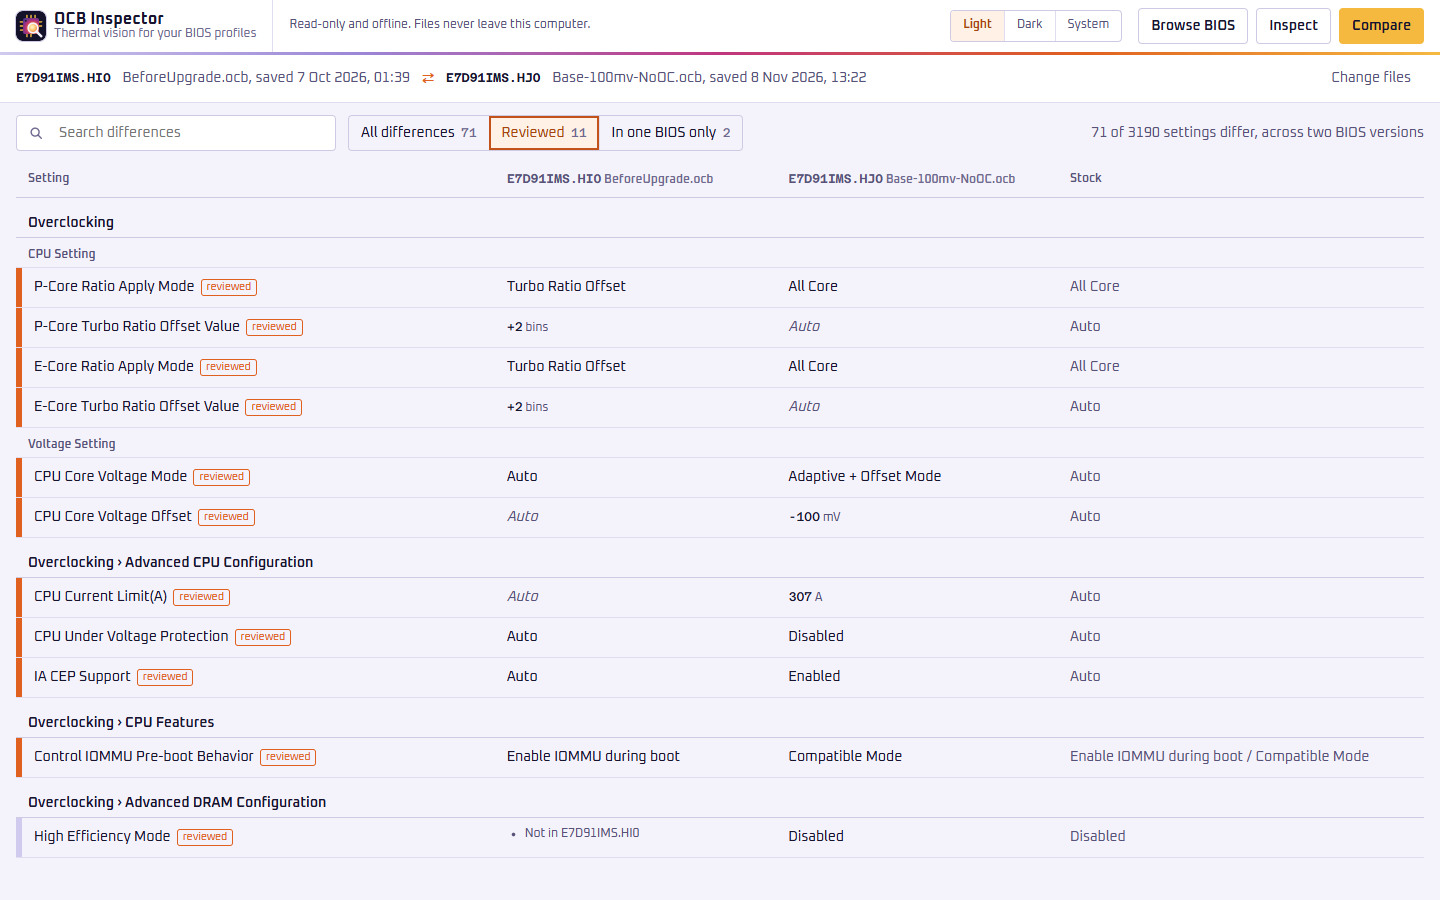
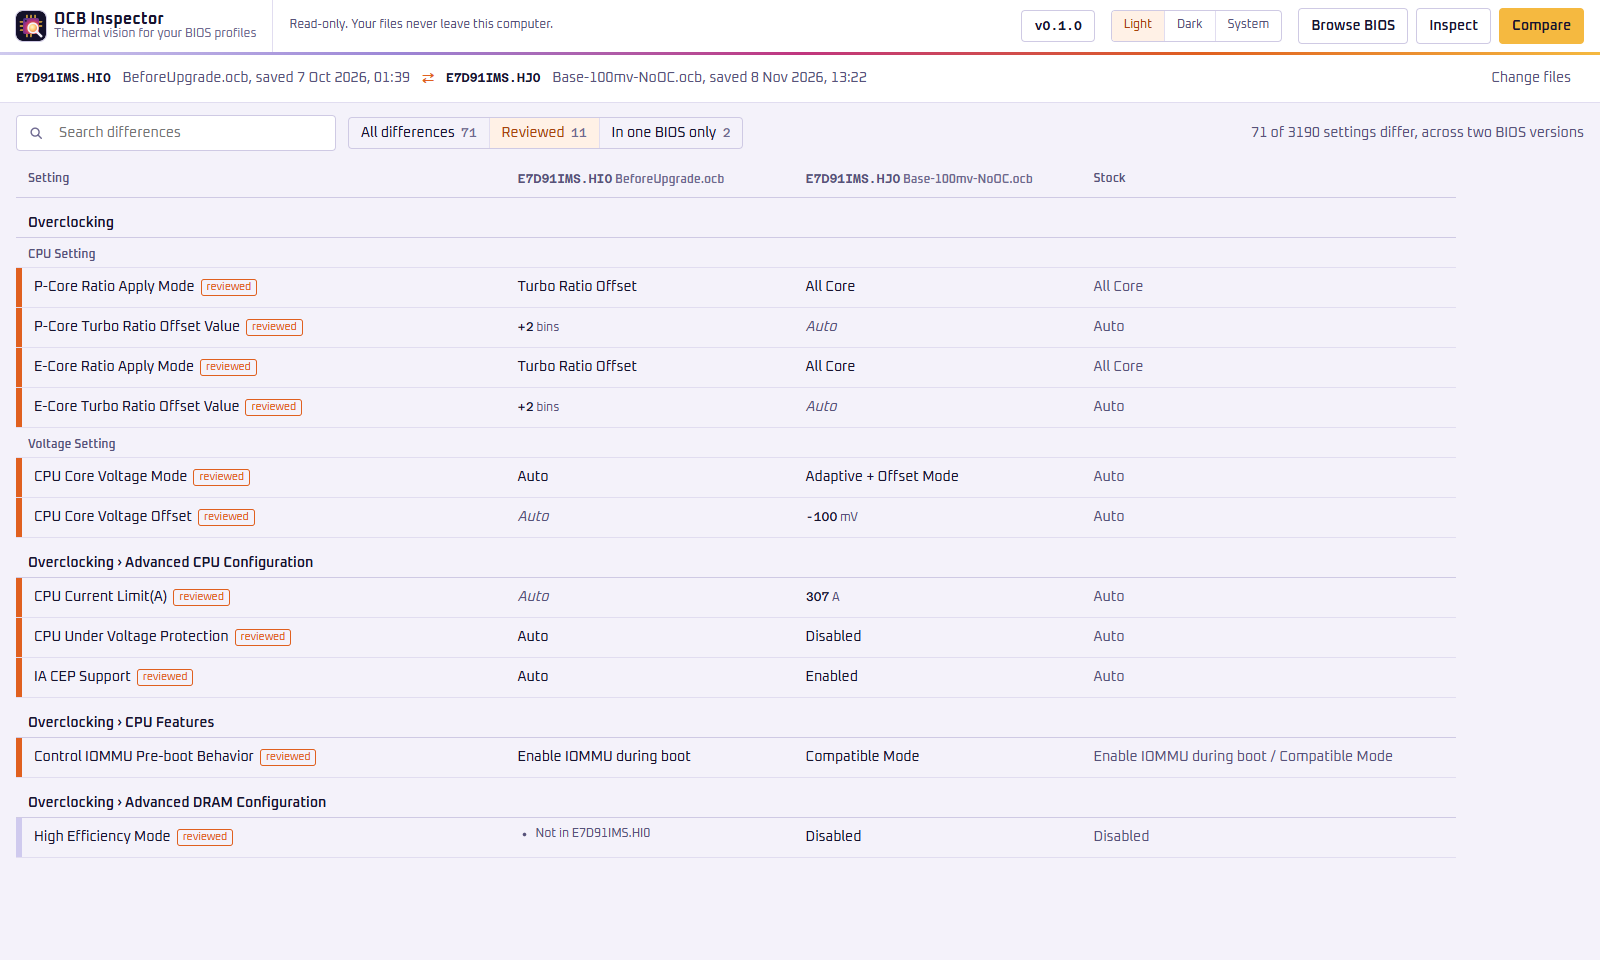
docs: refresh the README and screenshots for the one Inspect screen
Describe Inspect as a read of the profile against the BIOS file's own defaults, in plainer words, and retake the four screenshots from the preview.

diff --git a/README.md b/README.md
@@ -23,24 +23,24 @@ changed, you have to find it all again by hand, because MSI gives you no way to 
 your PC and see what's in it.
 
 OCB Inspector is our attempt to change that. Open the old profile together with the BIOS file it
-was saved on, and you see the settings it can map, laid out the way the BIOS menus lay them out,
-with a stock value beside each one where the firmware supplies it. Mapped values that differ
-from those defaults are highlighted. Compare supported profiles from before and after an
-update to see which stored settings differ.
+was saved on, and you see its settings laid out the way the BIOS menus lay them out, with the
+stock value beside each one. The list opens on the settings that are not at their default, so
+you can copy them into the newly flashed BIOS by hand.
 
-Inspect uses the supplied BIOS's definitions to read recognized profiles and compare saved
-values with available firmware defaults. A few profile/BIOS pairs from Intel 400-, 600- and
-700-series boards have been examined. AMD BIOS images have been browsed, but no AMD profiles
-have been tested.
-See [Help wanted](#help-wanted-profiles-from-other-boards) to contribute another pair.
+The stock values and the setting names come from the BIOS file you open, not from a table built
+into the program, so this works for any pair the program can read. A few profile/BIOS pairs from
+Intel 400-, 600- and 700-series boards have been examined so far; no AMD profile has been tested
+(AMD BIOS images can be browsed). A value that is not at its default is not always one you set:
+the firmware fills in some by itself. See [Help wanted](#help-wanted-profiles-from-other-boards)
+to contribute a pair from your board.
 
 <p align="center">
-  <img src="docs/images/inspect.png" alt="A profile open next to its BIOS: the Overclocking page, with the saved value and stock value of each setting, and the P-Core Turbo Ratio Offset at +2 bins">
+  <img src="docs/images/inspect.png" alt="A profile open next to its BIOS: the Overclocking page, with the saved value and default of each setting, and the P-Core Turbo Ratio Offset at +2 bins, not at its default">
 </p>
 
 <p align="center">
   <img src="docs/images/compare.png" width="49%" alt="Two profiles compared across BIOS versions HI0 and HJ0: the CPU settings that differ, such as the core voltage offset">
-  <img src="docs/images/inspect-dark.png" width="49%" alt="Dark mode: Advanced CPU Configuration, with C1E Support selected and its choices listed">
+  <img src="docs/images/inspect-dark.png" width="49%" alt="Dark mode: Advanced CPU Configuration, with C1E Support selected and where it is stored in the profile">
 </p>
 
 <p align="center">
@@ -53,24 +53,27 @@ See [Help wanted](#help-wanted-profiles-from-other-boards) to contribute another
   with each setting's "Load Optimized Defaults" value. Intel 300–800 series, X299, AM4, AM5 and
   TRX40 images open.
 - **Inspect a profile.** Open an `.ocb` profile with the BIOS that saved it and see the settings
-  it can map (over 3,000 on examined Z790 pairs), what the BIOS menus call them, and whether
-  they differ from available optimized defaults.
+  it stores (over 5,000 on the Z790 pairs examined), what the BIOS menus call them, and which
+  are not at the optimized default. A profile saved by another BIOS version is refused, with
+  the version to open instead.
 - **Compare two profiles.** Side by side, even across BIOS versions: settings are matched by
   their place in the menus, so a profile saved before a BIOS update lines up with one saved
   after it.
-- **BIOS-derived Inspect (experimental).** Inspect maps profile records through the supplied
-  BIOS's variable list and setup definitions. It labels inferred mappings and reports partial
-  or blocked results. Compatible reviewed recipes can add units, signed values and Auto
-  interpretations; generic fields keep raw values and the BIOS's labels. Those recipes were
-  checked on one Z790 board and are also applied when compatible on other boards;
-  this does not establish that their meanings were checked on those boards. Raw values,
-  mapping evidence and raw comparisons remain available. Compare and experimental writing
-  use the separate reviewed reader; Inspect enrichment does not widen writing support.
-- **Defaults from your firmware.** Saved values are compared with the supplied BIOS's optimized
-  defaults where available. Missing or conflicting defaults remain explicitly unknown; they
-  are never treated as zero or unchanged. Generic numeric values can be raw storage numbers:
-  sign and units may be encoded in separate settings or vendor logic, so a number alone does
-  not establish a voltage, frequency or signed offset.
+- **Read from your BIOS file.** Inspect finds each profile record through the BIOS's own
+  variable list and setup definitions, and shows values with the BIOS's own labels. Each
+  setting says how it was tied to the profile (cross-checked by two rules, or inferred from
+  one), and records that cannot be tied to a setting are not guessed at. Plain numbers are
+  shown as stored: sign and unit can live in a separate setting, so a number alone is not a
+  voltage or a signed offset.
+- **Recipe readings.** For a small set of CPU settings (voltage offset, power and current
+  limits, ratio offsets) a reviewed recipe adds the unit and sign, such as −100 mV, beside the
+  stored value. The recipes were checked on one Z790 board; on other boards they are applied
+  when the BIOS defines the setting the same way, and are marked "not checked on this board".
+  Compare and the experimental writing use a separate, stricter reader; nothing Inspect shows
+  widens what can be written.
+- **Defaults from your firmware.** The default is the BIOS file's own "Load Optimized Defaults"
+  value. Where the image has none for a setting, or its copies disagree, the default is shown
+  as unknown; it is never treated as zero or as unchanged.
 - **Compare with your own baseline.** The BIOS image's optimized defaults flag dozens of values
   the firmware fills in by itself (DMI lanes, fan types). To see only what differs from a clean
   setup, load optimized defaults in the BIOS, save a profile, and give it to the analysis as the
